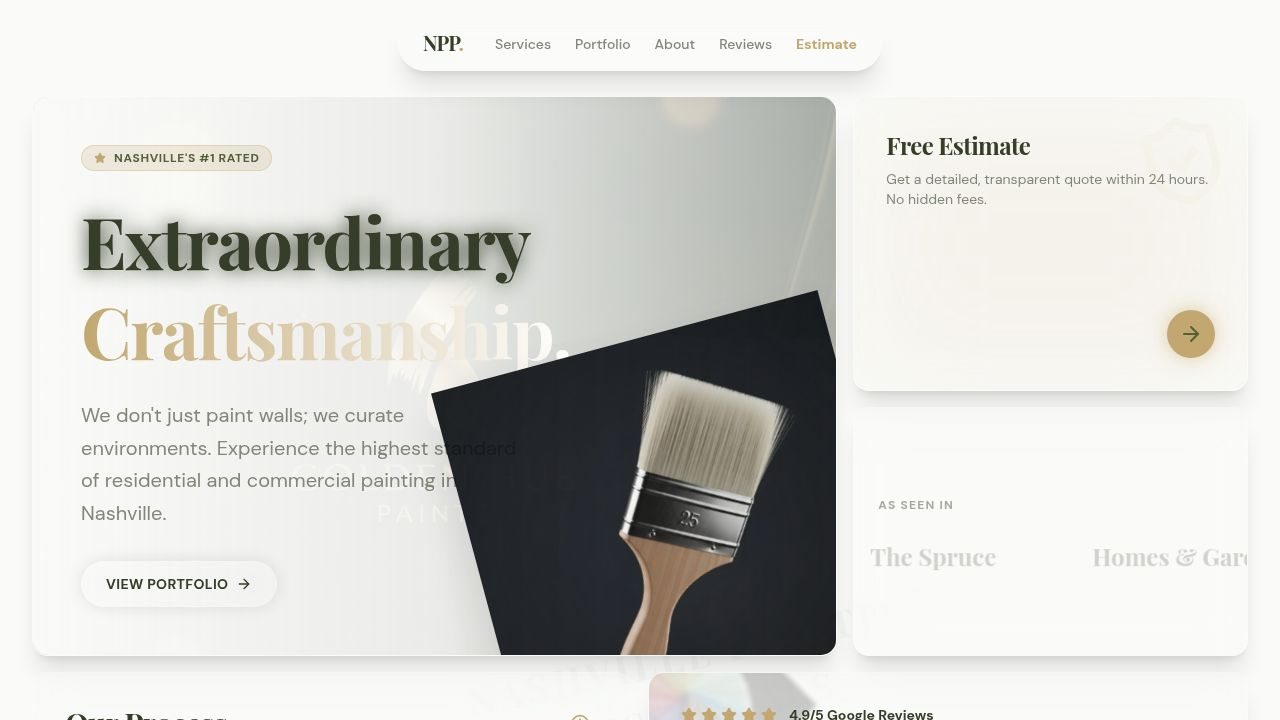
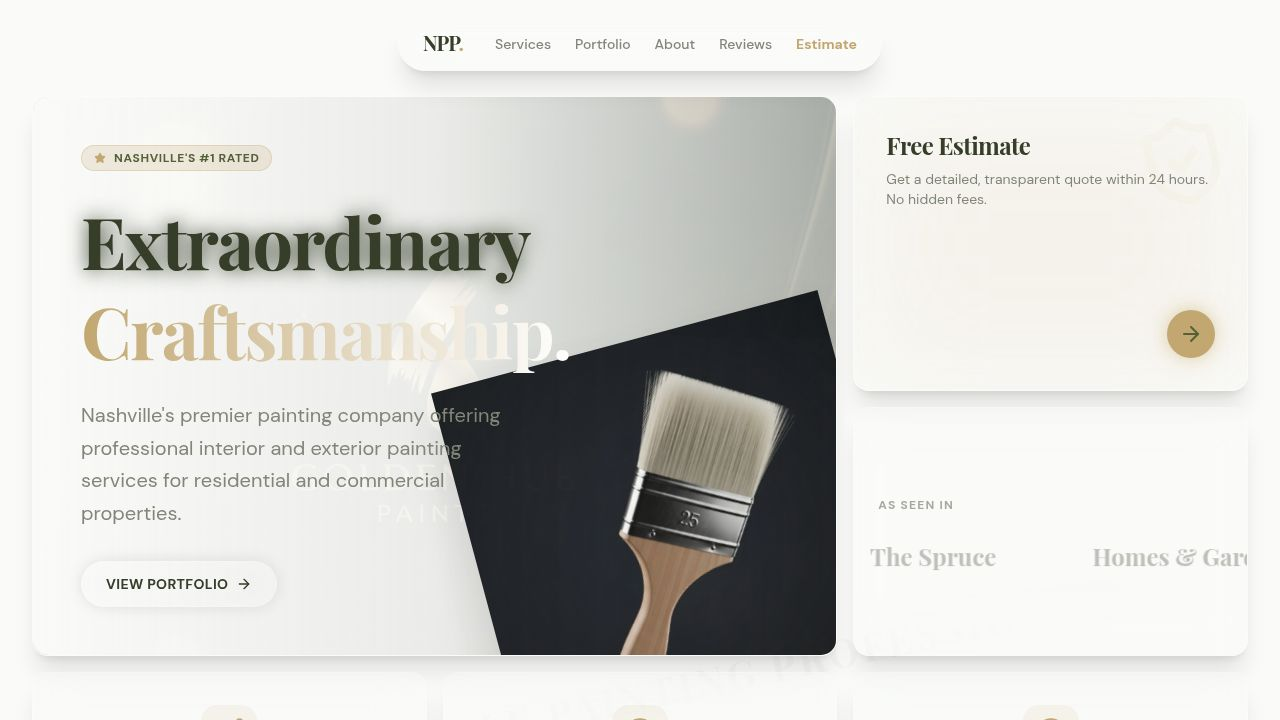
Improve readability by adjusting image placement on mobile devices
Modify the home page component to hide the paintbrush image on mobile and adjust its z-index on desktop to prevent text overlap.

Replit-Commit-Author: Agent
Replit-Commit-Session-Id: 07db1cd0-9ba1-491a-b646-9ce7243427cc
Replit-Commit-Checkpoint-Type: full_checkpoint
Replit-Commit-Event-Id: 86184e06-fd2a-4d86-bd17-ed05be14f3ed
Replit-Commit-Screenshot-Url: https://storage.googleapis.com/screenshot-production-us-central1/57a1a84c-83d8-41f5-82c5-8661edb484a4/07db1cd0-9ba1-491a-b646-9ce7243427cc/IwOVAiP
Replit-Helium-Checkpoint-Created: true

Changed region(s): [[0.0625, 0.55, 0.375, 0.7333], [0.5, 0.9167, 0.75, 1.0], [0.0938, 0.9778, 0.125, 1.0]]

diff --git a/client/src/pages/home.tsx b/client/src/pages/home.tsx
@@ -73,11 +73,11 @@ export default function Home() {
                 </div>
               </div>
 
-              {/* Floating Element 1 - Adjusted for Mobile */}
+              {/* Floating Element 1 - Hidden on mobile to avoid text overlap */}
               <img 
                 src={paintBrush} 
                 alt="Brush" 
-                className="absolute -right-20 -bottom-10 w-[250px] md:w-[400px] md:-right-10 md:-bottom-20 h-auto object-contain z-10 opacity-90 drop-shadow-2xl rotate-[-15deg] transition-transform duration-500 group-hover:rotate-[-10deg] group-hover:translate-x-2 pointer-events-none"
+                className="hidden md:block absolute -right-10 -bottom-20 w-[400px] h-auto object-contain z-[5] opacity-90 drop-shadow-2xl rotate-[-15deg] transition-transform duration-500 group-hover:rotate-[-10deg] group-hover:translate-x-2 pointer-events-none"
               />
             </GlassCard>
           </BentoItem>
